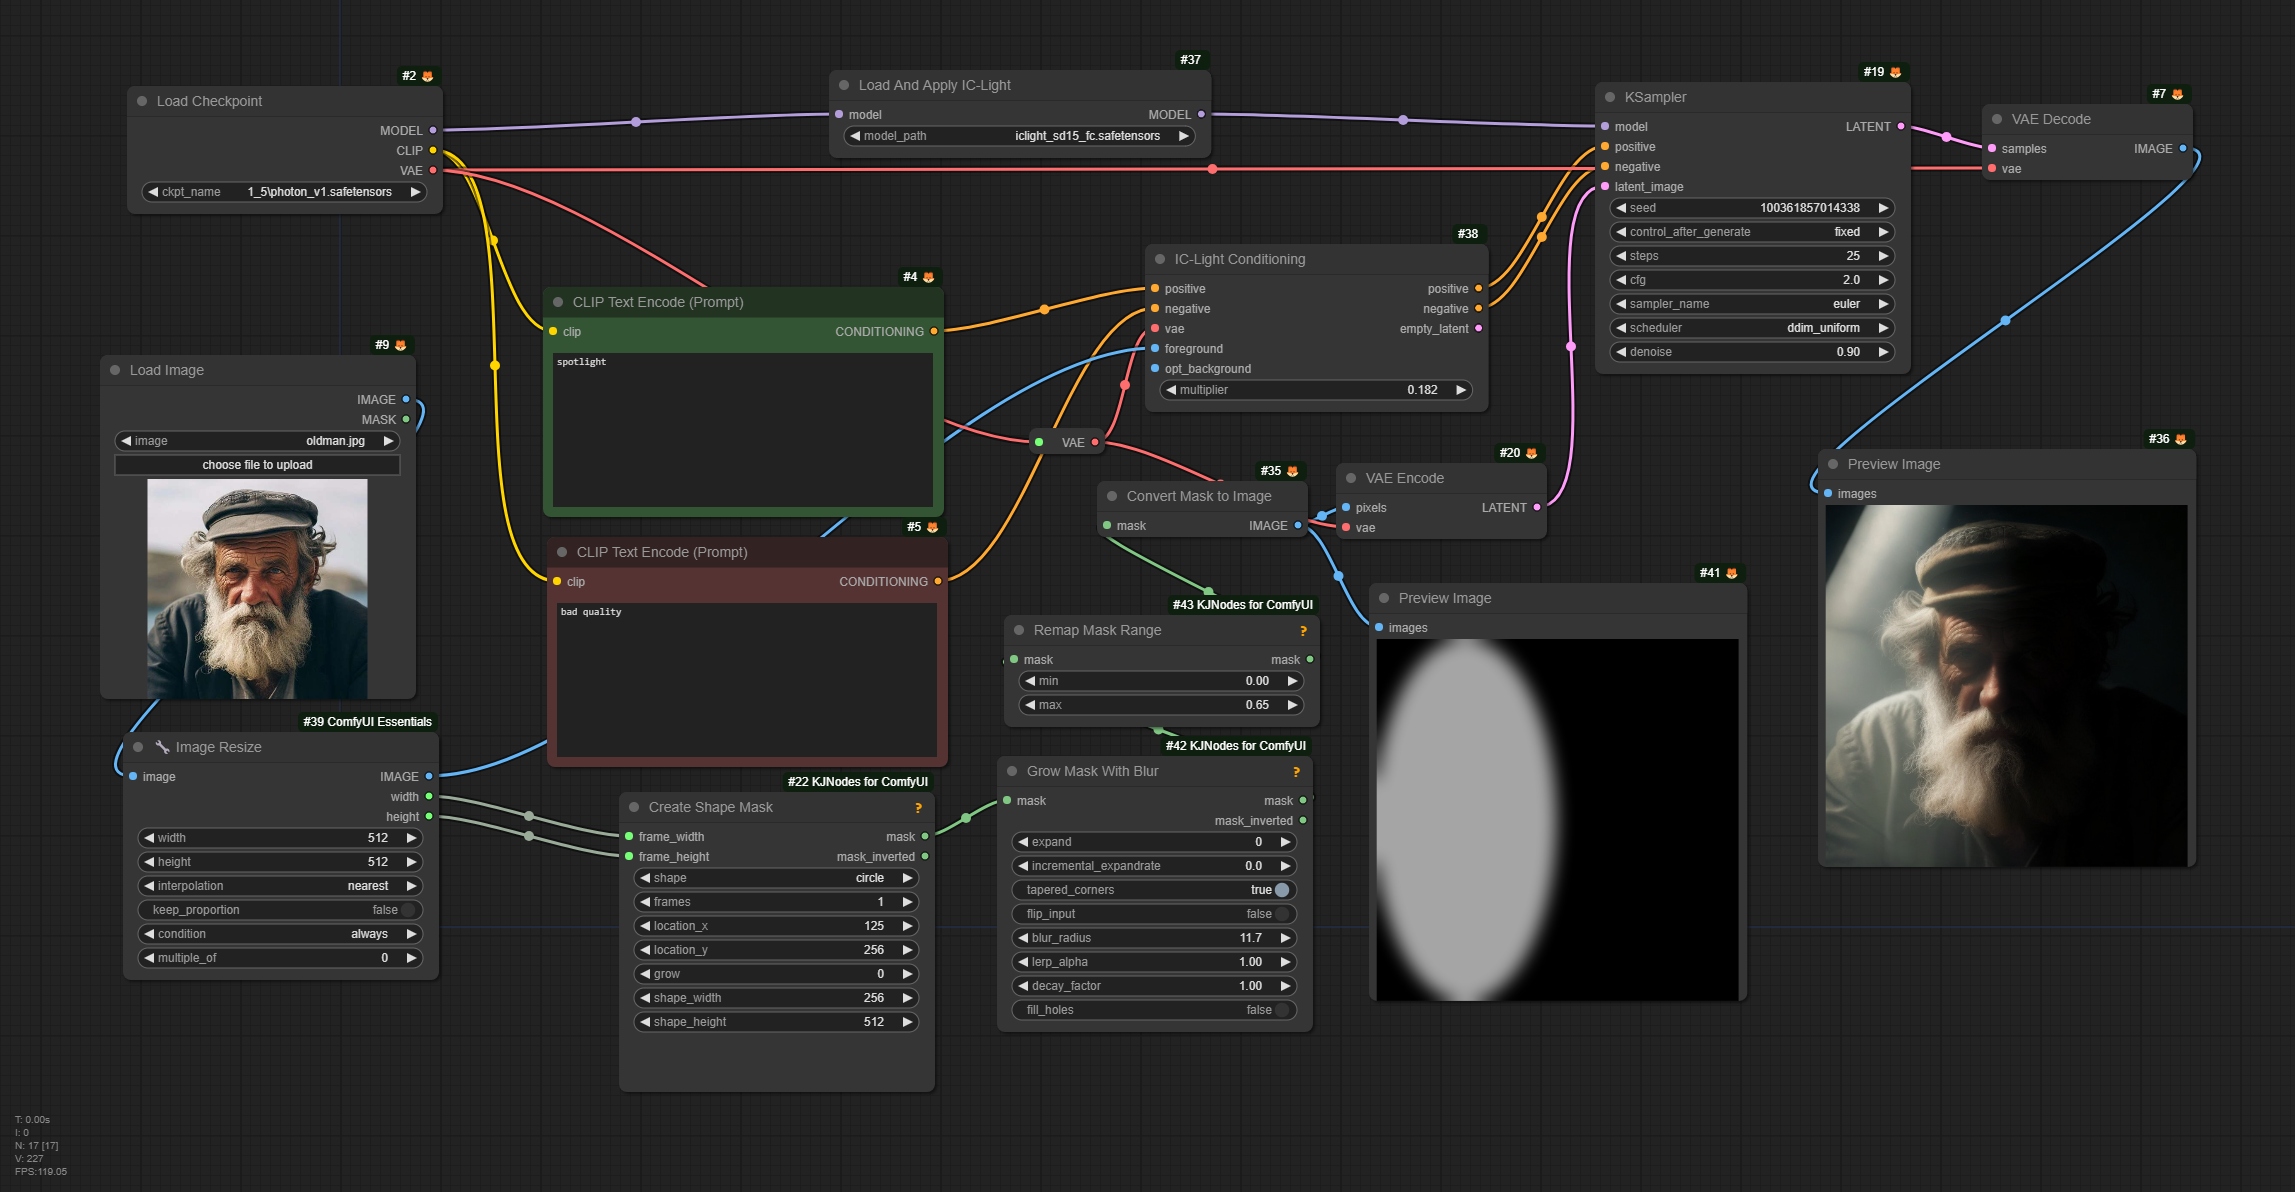
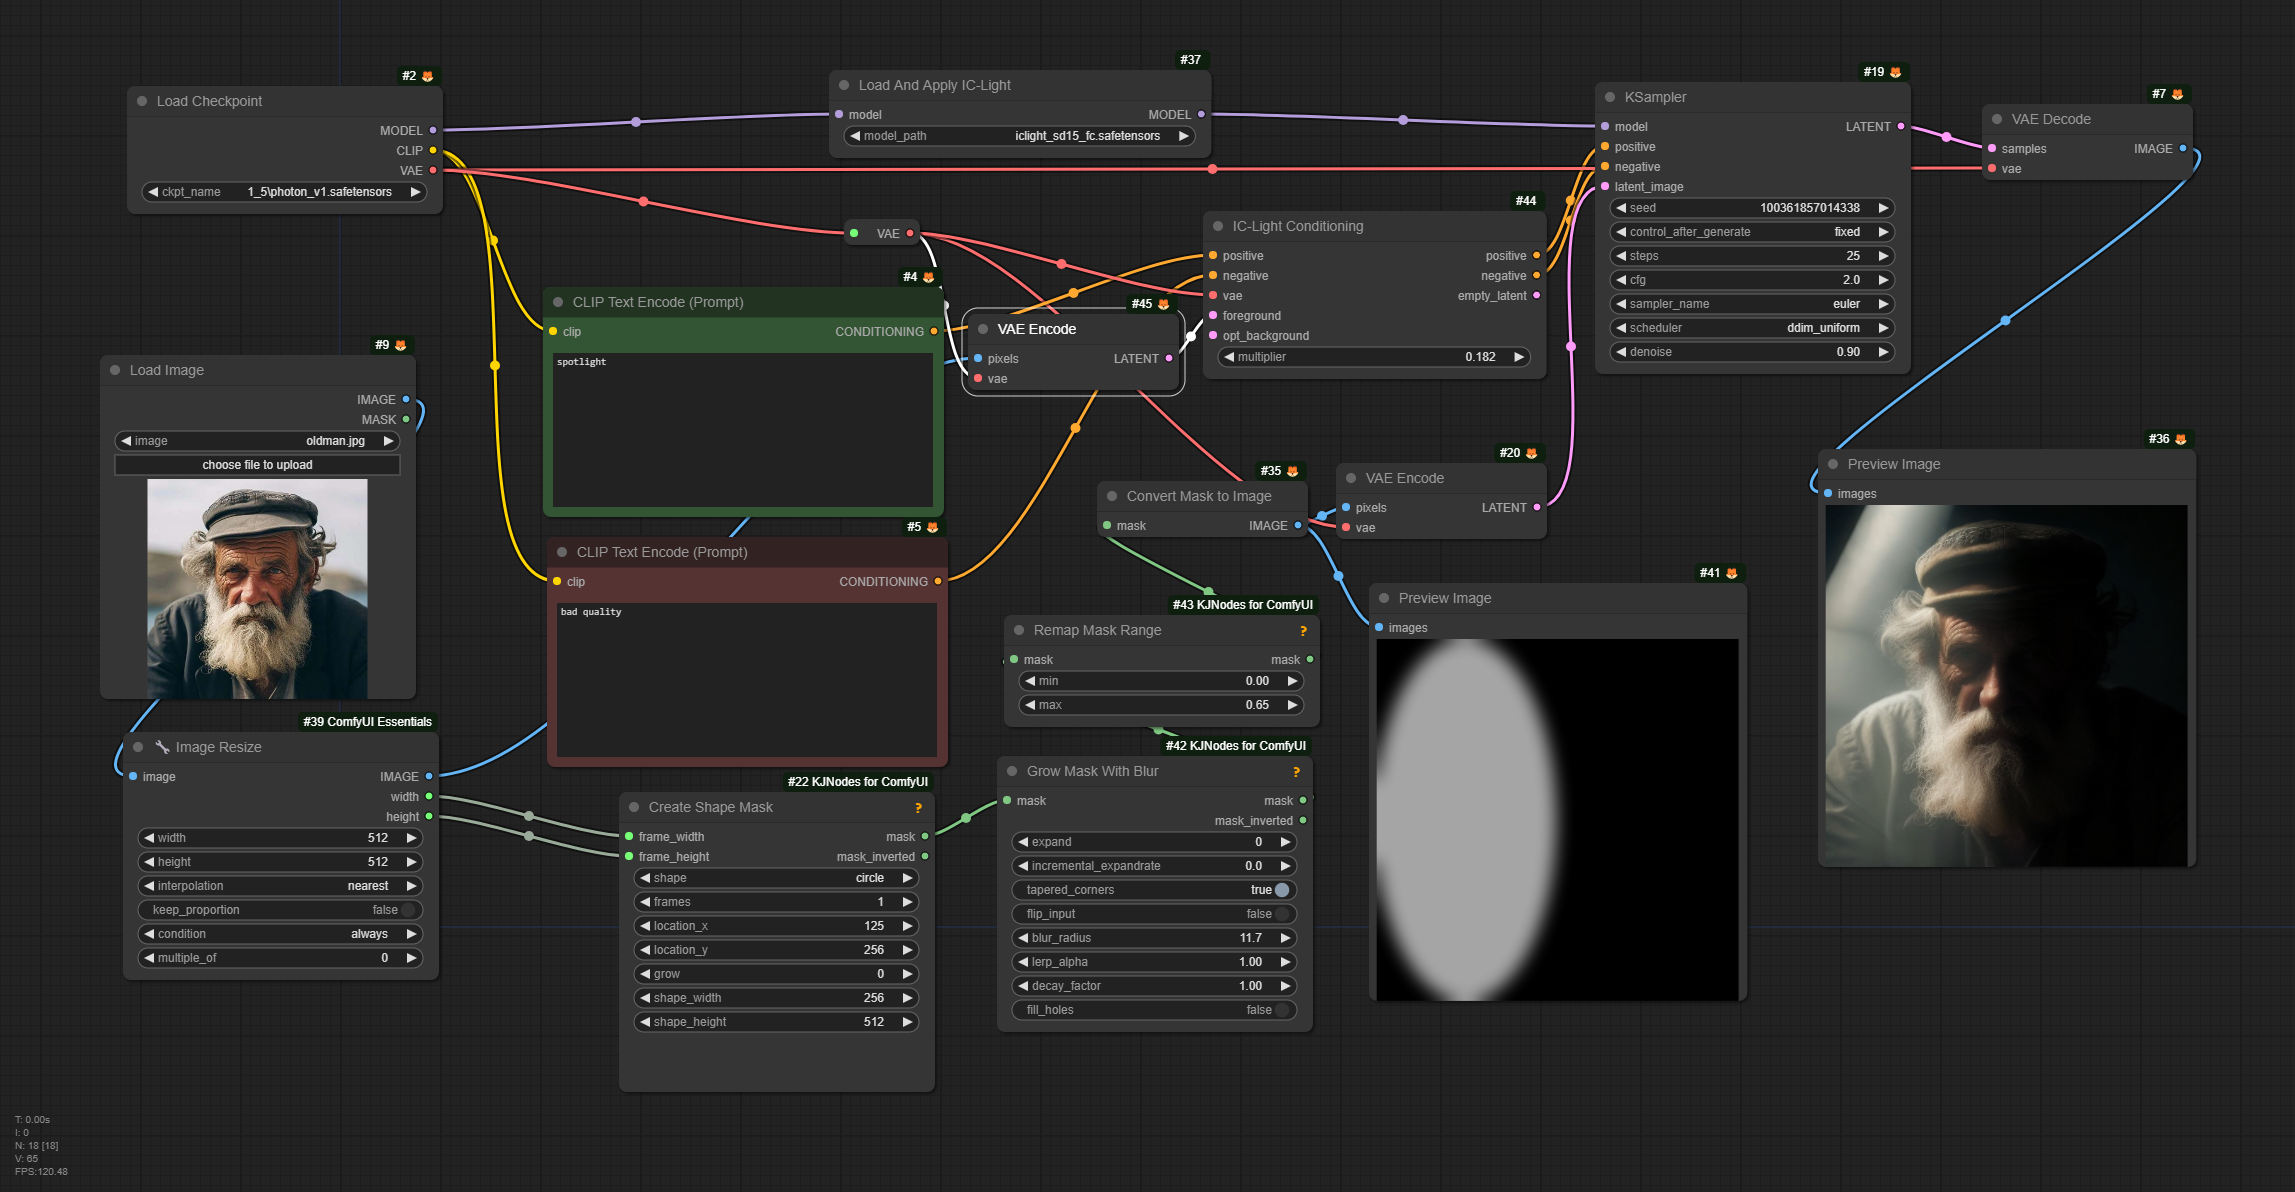
use latents instead of images

diff --git a/nodes.py b/nodes.py
@@ -115,11 +115,11 @@ class ICLightConditioning:
         return {"required": {"positive": ("CONDITIONING", ),
                              "negative": ("CONDITIONING", ),
                              "vae": ("VAE", ),
-                             "foreground": ("IMAGE", ),
+                             "foreground": ("LATENT", ),
                              "multiplier": ("FLOAT", {"default": 0.18215, "min": 0.0, "max": 1.0, "step": 0.001}),
                              },
                 "optional": {
-                     "opt_background": ("IMAGE", ),
+                     "opt_background": ("LATENT", ),
                      },
                 }
 
@@ -130,35 +130,14 @@ class ICLightConditioning:
     CATEGORY = "IC-Light"
 
     def encode(self, positive, negative, vae, foreground, multiplier, opt_background=None):
-        image_1 = foreground.clone()
-        
-        # Process image_1
-        x = (image_1.shape[1] // 8) * 8
-        y = (image_1.shape[2] // 8) * 8
-
-        if image_1.shape[1]!= x or image_1.shape[2]!= y:
-            x_offset = (image_1.shape[1] % 8) // 2
-            y_offset = (image_1.shape[2] % 8) // 2
-            image_1 = image_1[:,x_offset:x + x_offset, y_offset:y + y_offset,:]
-
-        concat_latent_1 = vae.encode(image_1)
+        samples_1 = foreground["samples"]
 
         if opt_background is not None:
-            image_2 = opt_background.clone()
-            # Process image_2
-            x = (image_2.shape[1] // 8) * 8
-            y = (image_2.shape[2] // 8) * 8
+            samples_2 = opt_background["samples"]
 
-            if image_2.shape[1]!= x or image_2.shape[2]!= y:
-                x_offset = (image_2.shape[1] % 8) // 2
-                y_offset = (image_2.shape[2] % 8) // 2
-                image_2 = image_2[:,x_offset:x + x_offset, y_offset:y + y_offset,:]
-
-            concat_latent_2 = vae.encode(image_2)
-
-            concat_latent = torch.cat((concat_latent_1, concat_latent_2), dim=1)
+            concat_latent = torch.cat((samples_1, samples_2), dim=1)
         else:
-            concat_latent = concat_latent_1
+            concat_latent = samples_1
         print("ICLightConditioning: concat_latent shape: ", concat_latent.shape)
 
         out_latent = {}
